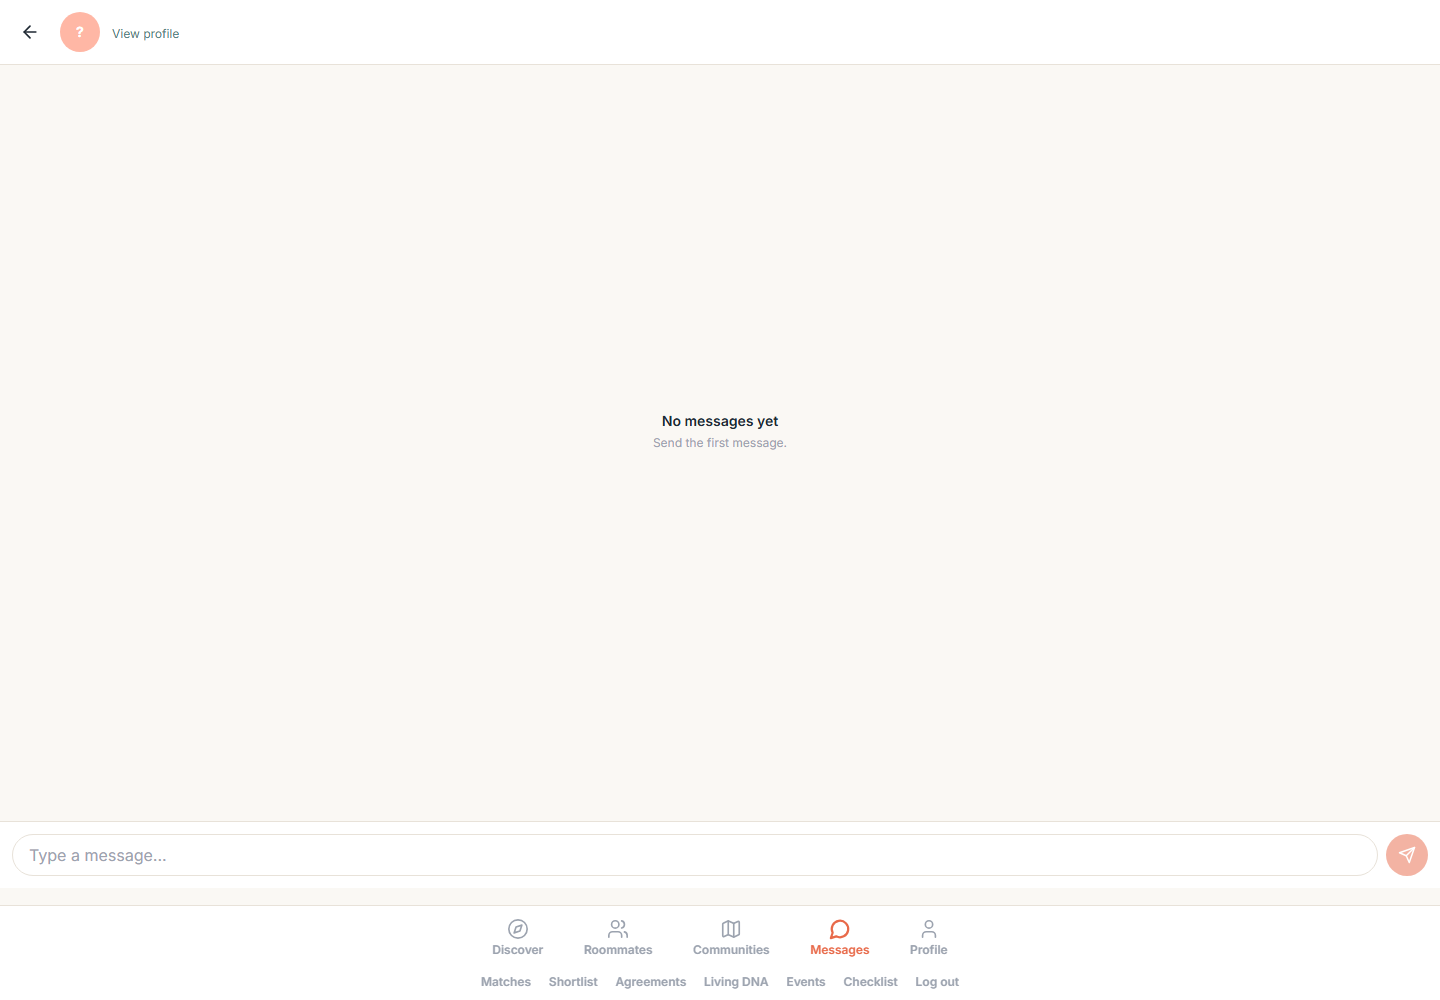
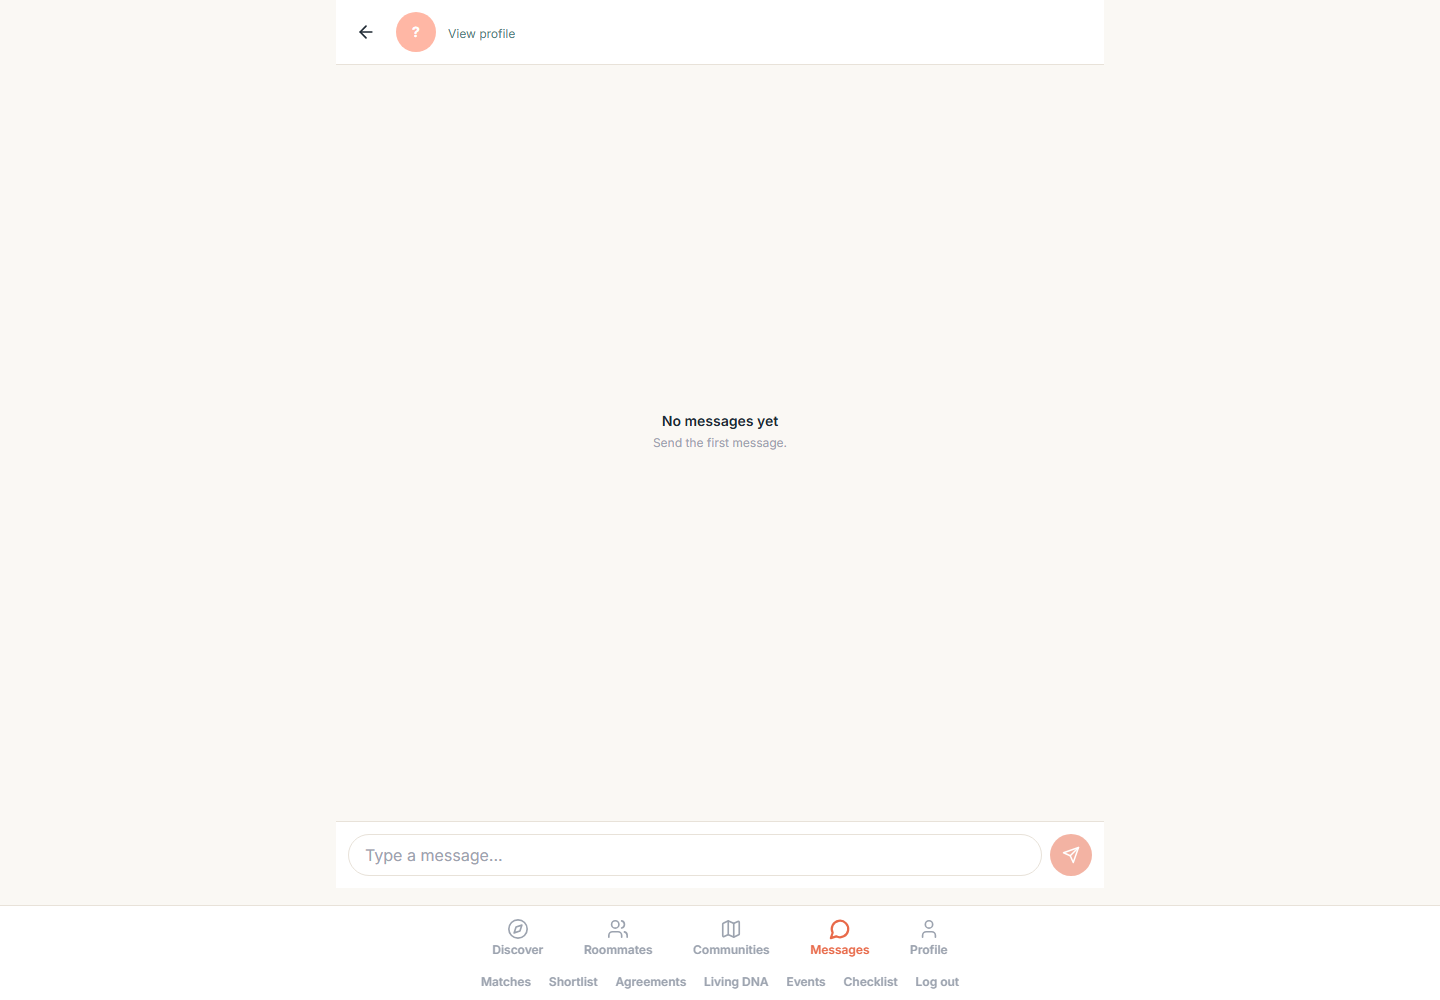
fix(chat): cap the conversation column, and walk the real app end to end
Chat was full-bleed on desktop: a message bubble stretched from 1124px to
1424px and the composer ran the entire viewport, which reads as broken rather
than roomy. Every other screen is capped, so the conversation is now
mx-auto max-w-3xl. Mobile is unchanged, and the composer still clears the
fixed bottom navigation.

scripts/ui-walkthrough.mjs drives the actual product rather than calling the
API: it signs two accounts up through the real registration form, completes
onboarding, likes from a real card, likes back, opens the conversation from the
Matches action, sends a message, reloads to prove it persisted, answers a
Living DNA question from real seeded options and reloads to prove the progress
held, then checks the privacy tab. Nothing is mocked - it runs against the
isolated database through the running Vite and API.

11 legs, 11 passed. Two of its early failures were the walkthrough's own
mistakes, not the product's: the Matches action is a Link with an aria-label
rather than a button, and guessing at seeded Living DNA option copy failed, so
it now reads the real options out of the database and asserts progress from the
progressbar's own aria-label.

Added npm run qa:walkthrough and verify:journey so both suites are discoverable.

Verified on the isolated branch: e2e journey 9/9, recommendations 11/11,
discover 5/5, chat/matches 5/5, audit screenshots all overflow=false, lint and
build clean. Walkthrough cleanup before=2 deleted=2 after=0.

diff --git a/frontend-react/src/pages/ChatPage.jsx b/frontend-react/src/pages/ChatPage.jsx
@@ -123,8 +123,12 @@ export default function ChatPage() {
       {/* Layout reserves pb-28 (7rem) for the fixed bottom nav, which measures
           ~111px at 390px where it wraps to two rows. Mirroring that here keeps
           the composer above the nav instead of clipped by it. Claiming a full
-          100dvh pushed the composer straight down onto the nav. */}
-      <div className="flex flex-col bg-surface-bg h-[calc(100dvh-7rem)]">
+          100dvh pushed the composer straight down onto the nav.
+
+          The column is also capped. Full-bleed, a desktop bubble stretched from
+          1124px to 1424px and the composer ran the entire viewport, which reads
+          as broken rather than roomy. Every other screen is capped. */}
+      <div className="mx-auto w-full max-w-3xl flex flex-col bg-surface-bg h-[calc(100dvh-7rem)]">
         <header className="flex items-center gap-3 p-3 border-b border-surface-border bg-surface-card">
           <button
             type="button"
